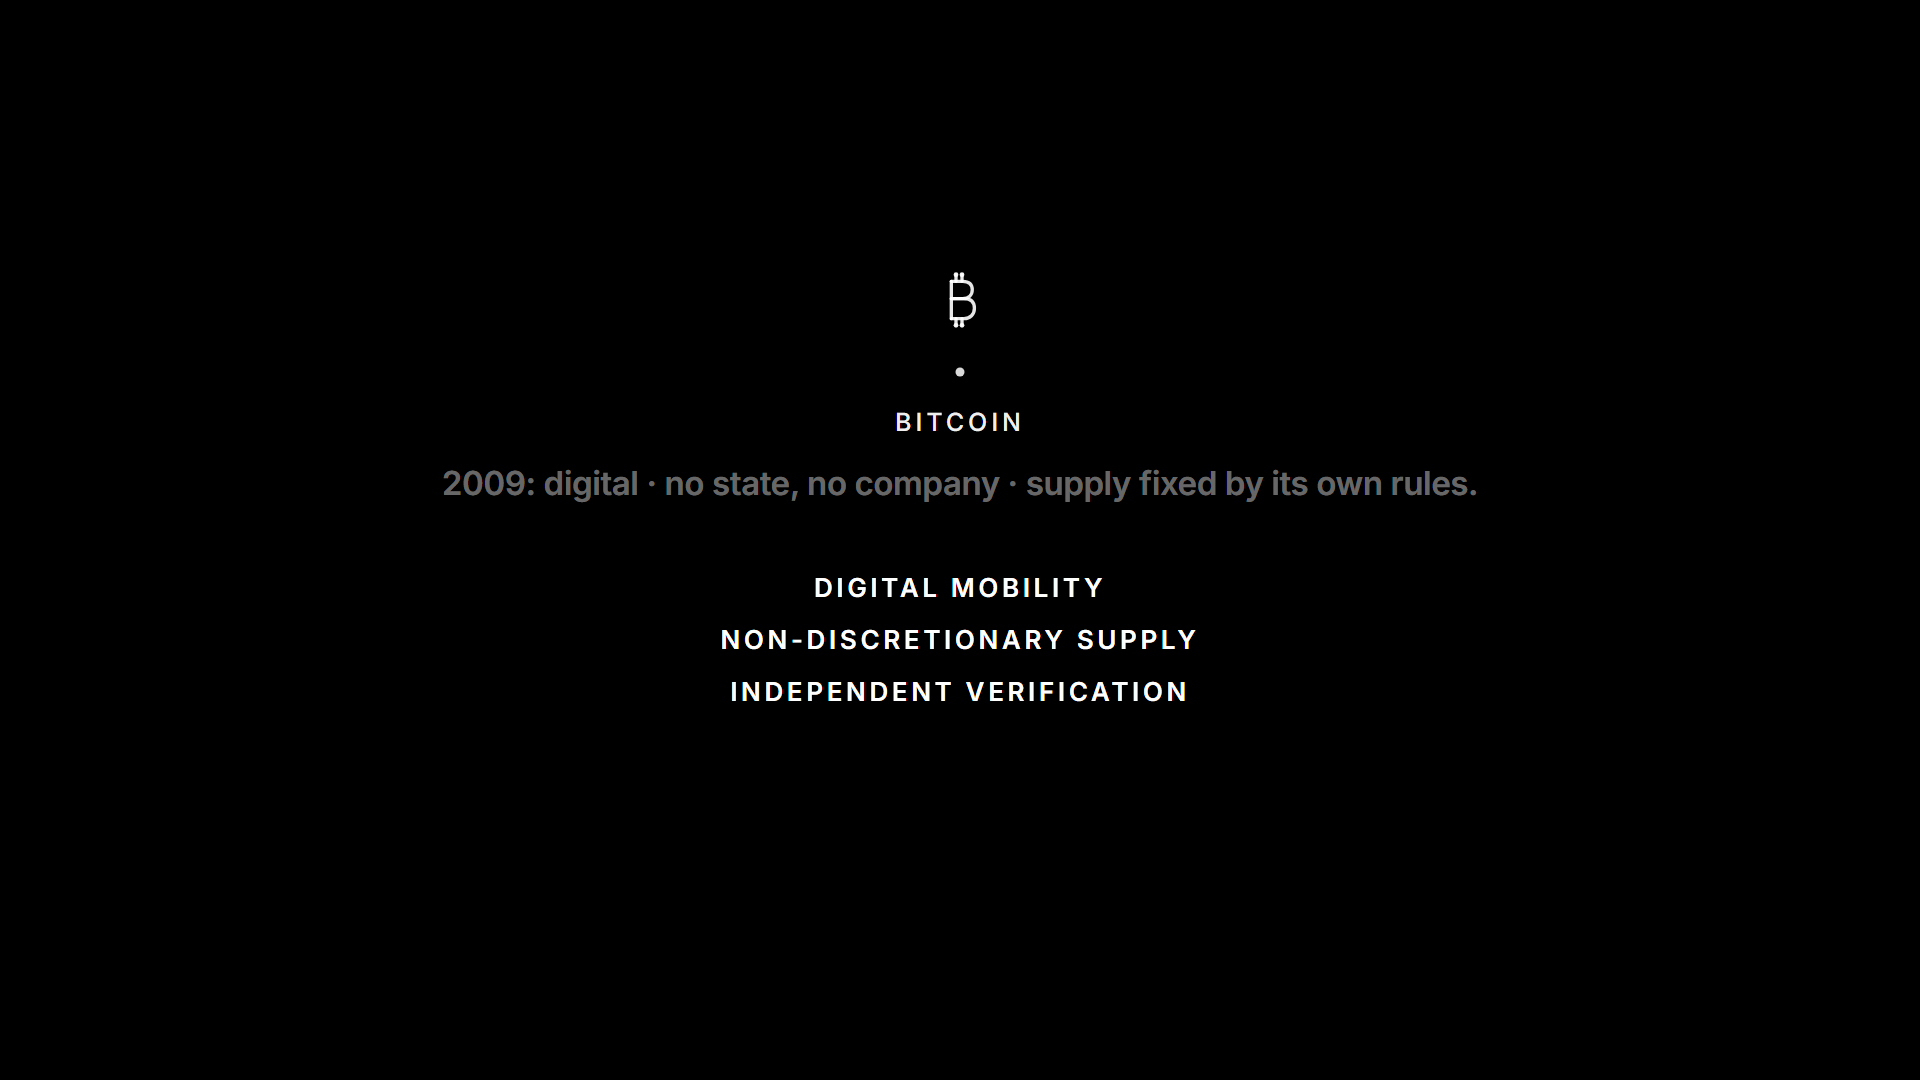
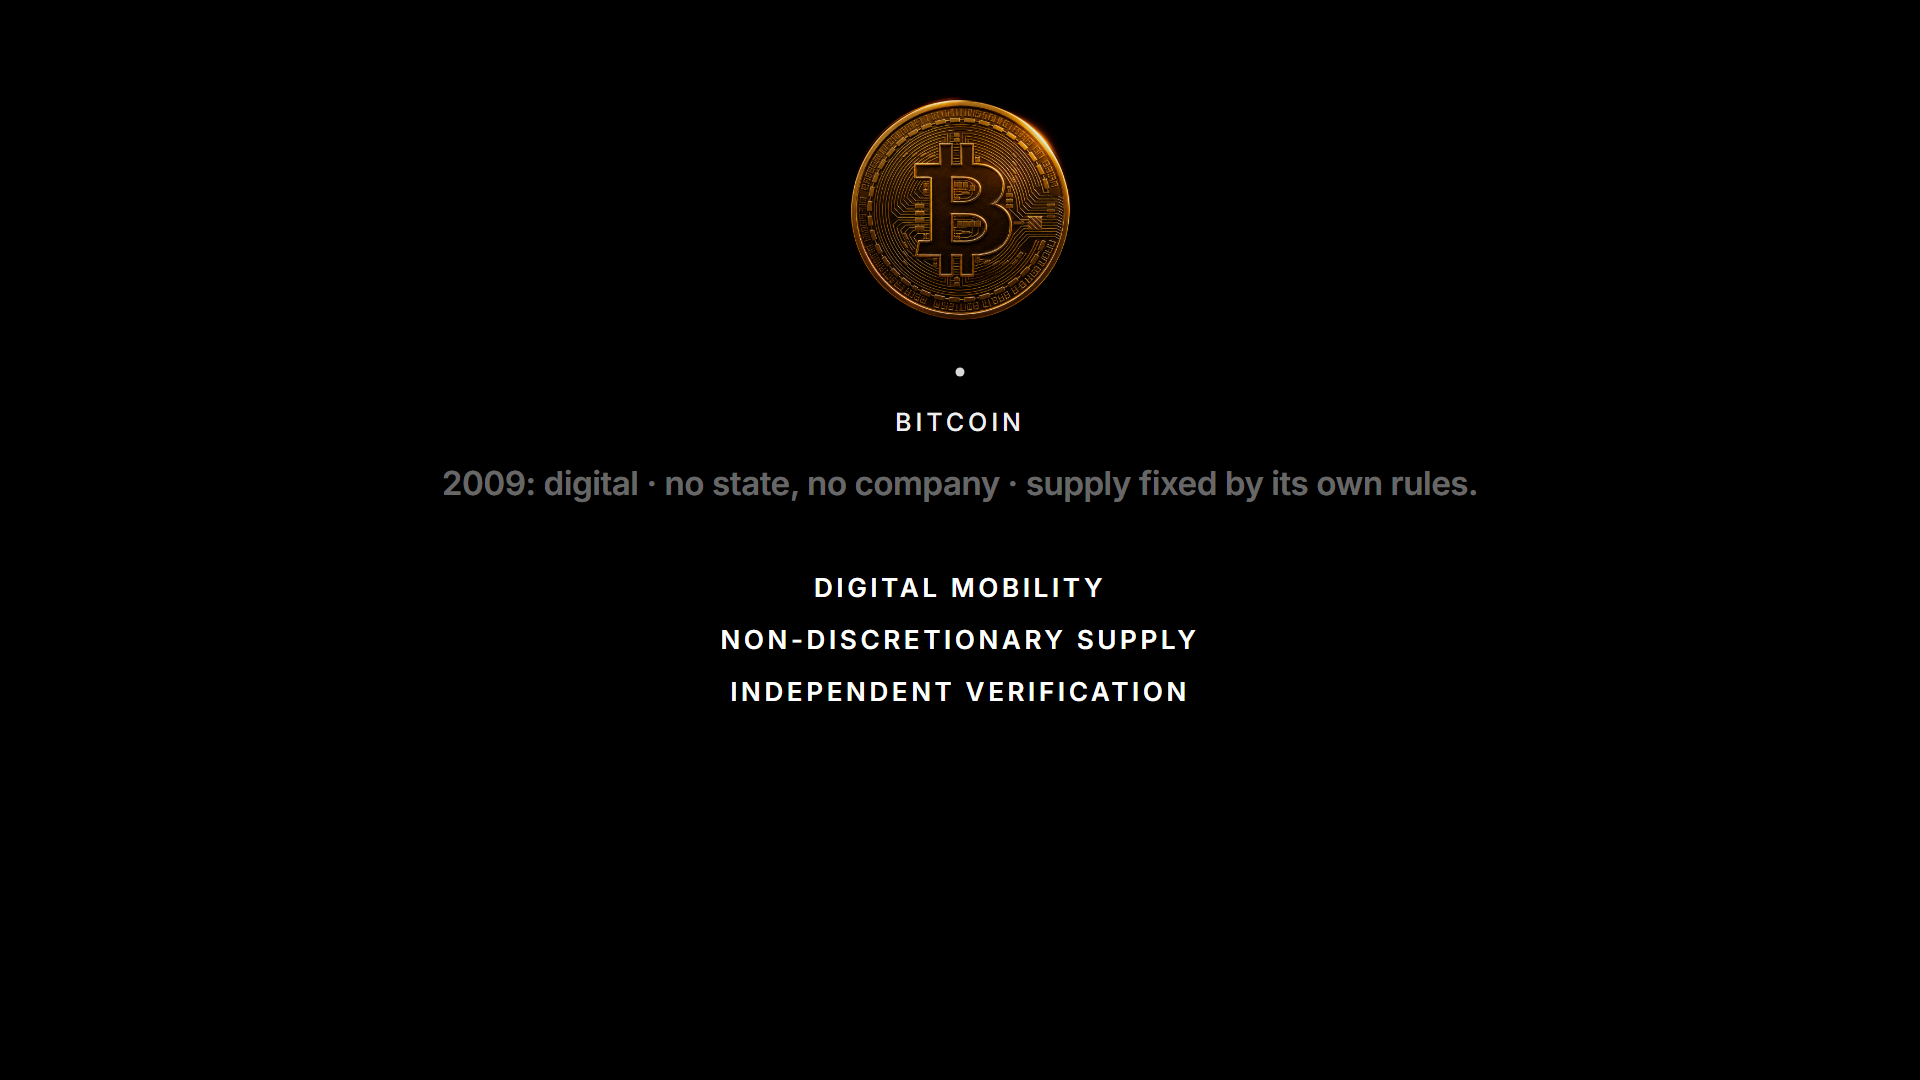
review(act-2): ruling 2 - the bitcoin glyph retires at display scale
The entrant block carries the coin render per the C1 ruling - s9-b2, s9-b3
and s9-b4 re-rendered, the drawn rhythm beneath the head untouched. The
sweep found no other display-scale glyph stand-in for the asset among the
act's beat cells: the strip already carries the coin by C1 and the rails
law, network nodes and station marks are drawn grammar and stay drawn, and
the on-file candidates keep their glyphs per the aesthetic law. Nothing
ambiguous; the legacy 2-08 entrant glyph leaves the deck at the splice.

Claude-Session: https://claude.ai/code/session_01Cr6MQm8k1rVDng9D5uytnx

Changed region(s): [[0.4375, 0.0917, 0.5625, 0.3056]]

diff --git a/review/act-2/states/sheet.html b/review/act-2/states/sheet.html
@@ -38,14 +38,44 @@ gold_certificate render, relabeled CLAIM ON GOLD, every station photographic, th
 glyph is retired at display scale (the entrant block carries the coin render), the prototype gate for the architecture
 morph is collapsed into the implementation review (your live viewing of the implemented act is the gate), and the
 post-§1 record is the approved set for every landed-state proof. <b>2 cells still carry a pending verdict — see the section below.</b>
-Current classes: <b>2 ruled-re-render · 2 pending-review · 2 approved-selection · 5 approved-adapt · 20 approved-port · 7 determined · 11 on-file</b>. Every cell is examined at full size — click any image.</p>
+Current classes: <b>5 ruled-re-render · 2 pending-review · 2 approved-selection · 5 approved-adapt · 17 approved-port · 7 determined · 11 on-file</b>. Every cell is examined at full size — click any image.</p>
 <p class="note">The beat maps stand frozen at <b>37 beats</b> (S5 8 · S6 9 · S7 5 · S8 5 · S9 5 · S10 5). The claim
 through-line is on stage at <b>S5 b1 · S5 b7 · S6 b8 · S7 b1 · S7 b2</b>; on S10's strip the disc is the traveler,
 never a station — its journey across the act (S5 entry → carrier → certificate travel → strip arrival) is the
 connective motion the implementation builds and your viewing judges.</p>
-<h2 class="h--ruled-re-render">THE §1 RE-RENDERS — THE RECORD BY RULING · 2 cells</h2>
+<h2 class="h--ruled-re-render">THE §1 RE-RENDERS — THE RECORD BY RULING · 5 cells</h2>
 <p class="lang">These cells were re-rendered exactly as the §1 rulings of 31 August order: the strip’s second station carries the gold_certificate render relabeled CLAIM ON GOLD with all four stations photographic (ruling 1 — the CERTIFICATE), and the entrant block carries the bitcoin coin render in place of the drawn glyph (ruling 2, per C1). They are the approved record by ruling 4, and they meet your eye at the act viewing — which ruling 3 makes the gate. Nothing here asks you for a verdict before that viewing.</p>
 <div class="row">
+    <figure data-review="ruled-re-render">
+      <a href="./s9-b2.png" target="_blank"><img src="./s9-b2.png" alt="s9-b2" loading="lazy" /></a>
+      <figcaption>
+        <b>s9-b2</b> · S9 b2 · <span class="frame">S9-F2</span>
+        <span class="pill pill--ruled-re-render">PORT</span>
+        <br>Beat 2 · the facts, in the deck’s most neutral register. The rail’s own entrant block, free-standing: the coin render at its head (the §1.2 ruling — the bitcoin glyph retires at display scale, per C1), the name in stop typography, and the recorded line — “2009: digital · no state, no company · supply fixed by its own rules.” Description, never argument. The drawn rhythm beneath the head is untouched.
+        <br><span class="src">source: 2-08-the-pattern builds 5–6 — the entrant block in the neutral register + the display-scale glyph retirement (31 Aug 2026, Batch B brief §1.2 — the coin render per C1)</span>
+        <br><a href="./s9-b2.png" target="_blank">full size</a>
+      </figcaption>
+    </figure>
+    <figure data-review="ruled-re-render">
+      <a href="./s9-b3.png" target="_blank"><img src="./s9-b3.png" alt="s9-b3" loading="lazy" /></a>
+      <figcaption>
+        <b>s9-b3</b> · S9 b3 · <span class="frame">S9-F2</span>
+        <span class="pill pill--ruled-re-render">PORT</span>
+        <br>Beat 3 · the three capabilities that had never coexisted, landing on their own advance while the facts recede to the dimmed-prior step. The caps register is the deck’s; the three names are the architecture’s. Re-rendered with the coin at the block’s head per the §1.2 ruling — nothing else moved.
+        <br><span class="src">source: 2-08-the-pattern builds 5–6 + the display-scale glyph retirement (31 Aug 2026, Batch B brief §1.2)</span>
+        <br><a href="./s9-b3.png" target="_blank">full size</a>
+      </figcaption>
+    </figure>
+    <figure data-review="ruled-re-render">
+      <a href="./s9-b4.png" target="_blank"><img src="./s9-b4.png" alt="s9-b4" loading="lazy" /></a>
+      <figcaption>
+        <b>s9-b4</b> · S9 b4 · <span class="frame">S9-F2</span>
+        <span class="pill pill--ruled-re-render">PORT</span>
+        <br>Beat 4 · the honest line, in the same breath. This is the whole reason S9-F2 is a port: the legacy treatment already gives the limitation ITS OWN ADVANCE at full voice, with everything above it receded — which is what turns “honesty in the same breath” from a hope into a composition. The sentence is the rail’s, verbatim. Re-rendered with the coin at the block’s head per the §1.2 ruling — nothing else moved.
+        <br><span class="src">source: 2-08-the-pattern build 6 — the limitation as its own advance + the display-scale glyph retirement (31 Aug 2026, Batch B brief §1.2)</span>
+        <br><a href="./s9-b4.png" target="_blank">full size</a>
+      </figcaption>
+    </figure>
     <figure data-review="ruled-re-render">
       <a href="./s10-b1.png" target="_blank"><img src="./s10-b1.png" alt="s10-b1" loading="lazy" /></a>
       <figcaption>
@@ -228,7 +258,7 @@ connective motion the implementation builds and your viewing judges.</p>
         <br><a href="./s5f3-proof-1803.png" target="_blank">full size</a>
       </figcaption>
     </figure></div>
-<h2 class="h--approved-port">APPROVED BY PROVENANCE · 14 cells</h2>
+<h2 class="h--approved-port">APPROVED BY PROVENANCE · 11 cells</h2>
 <p class="lang">Ports. Every one of these is a proven legacy treatment transplanted — several of them by mounting the very component the legacy slides run, at the state they run it. They carry no review burden: look only if something appears wrong.</p>
 <div class="row">
     <figure data-review="approved-port">
@@ -339,36 +369,6 @@ connective motion the implementation builds and your viewing judges.</p>
         <br>Beat 4 · THE RECORD. Ported whole: `src/data/purchasing-power.js` unchanged, one vertex per observed year (“the line is the record, not a curve fit”), the frozen draw order and per-series alpha, the 1971 = 100 reference line, the end-label spread where USD and GBP finish within a label’s height, the index note. Ruled PORT on 31 Aug; an ADAPT is reserved only for a clash the presenter sees in context.
         <br><span class="src">source: 2-07-the-severance’s chart — the frozen data and every draw rule, untouched</span>
         <br><a href="./s8-b4.png" target="_blank">full size</a>
-      </figcaption>
-    </figure>
-    <figure data-review="approved-port">
-      <a href="./s9-b2.png" target="_blank"><img src="./s9-b2.png" alt="s9-b2" loading="lazy" /></a>
-      <figcaption>
-        <b>s9-b2</b> · S9 b2 · <span class="frame">S9-F2</span>
-        <span class="pill pill--approved-port">PORT</span>
-        <br>Beat 2 · the facts, in the deck’s most neutral register. The rail’s own entrant block, free-standing: the mark, the name in stop typography, and the recorded line — “2009: digital · no state, no company · supply fixed by its own rules.” Description, never argument.
-        <br><span class="src">source: 2-08-the-pattern builds 5–6 — the entrant block in the neutral register</span>
-        <br><a href="./s9-b2.png" target="_blank">full size</a>
-      </figcaption>
-    </figure>
-    <figure data-review="approved-port">
-      <a href="./s9-b3.png" target="_blank"><img src="./s9-b3.png" alt="s9-b3" loading="lazy" /></a>
-      <figcaption>
-        <b>s9-b3</b> · S9 b3 · <span class="frame">S9-F2</span>
-        <span class="pill pill--approved-port">PORT</span>
-        <br>Beat 3 · the three capabilities that had never coexisted, landing on their own advance while the facts recede to the dimmed-prior step. The caps register is the deck’s; the three names are the architecture’s.
-        <br><span class="src">source: 2-08-the-pattern builds 5–6</span>
-        <br><a href="./s9-b3.png" target="_blank">full size</a>
-      </figcaption>
-    </figure>
-    <figure data-review="approved-port">
-      <a href="./s9-b4.png" target="_blank"><img src="./s9-b4.png" alt="s9-b4" loading="lazy" /></a>
-      <figcaption>
-        <b>s9-b4</b> · S9 b4 · <span class="frame">S9-F2</span>
-        <span class="pill pill--approved-port">PORT</span>
-        <br>Beat 4 · the honest line, in the same breath. This is the whole reason S9-F2 is a port: the legacy treatment already gives the limitation ITS OWN ADVANCE at full voice, with everything above it receded — which is what turns “honesty in the same breath” from a hope into a composition. The sentence is the rail’s, verbatim.
-        <br><span class="src">source: 2-08-the-pattern build 6 — the limitation as its own advance</span>
-        <br><a href="./s9-b4.png" target="_blank">full size</a>
       </figcaption>
     </figure></div>
 <h2 class="h--determined">DETERMINED · 7 cells</h2>
@@ -845,33 +845,33 @@ connective motion the implementation builds and your viewing judges.</p>
         <br><a href="./s9-b1.png" target="_blank">full size</a>
       </figcaption>
     </figure>
-    <figure data-review="approved-port">
+    <figure data-review="ruled-re-render">
       <a href="./s9-b2.png" target="_blank"><img src="./s9-b2.png" alt="s9-b2" loading="lazy" /></a>
       <figcaption>
         <b>s9-b2</b> · S9 b2 · <span class="frame">S9-F2</span>
-        <span class="pill pill--approved-port">PORT</span>
-        <br>Beat 2 · the facts, in the deck’s most neutral register. The rail’s own entrant block, free-standing: the mark, the name in stop typography, and the recorded line — “2009: digital · no state, no company · supply fixed by its own rules.” Description, never argument.
-        <br><span class="src">source: 2-08-the-pattern builds 5–6 — the entrant block in the neutral register</span>
+        <span class="pill pill--ruled-re-render">PORT</span>
+        <br>Beat 2 · the facts, in the deck’s most neutral register. The rail’s own entrant block, free-standing: the coin render at its head (the §1.2 ruling — the bitcoin glyph retires at display scale, per C1), the name in stop typography, and the recorded line — “2009: digital · no state, no company · supply fixed by its own rules.” Description, never argument. The drawn rhythm beneath the head is untouched.
+        <br><span class="src">source: 2-08-the-pattern builds 5–6 — the entrant block in the neutral register + the display-scale glyph retirement (31 Aug 2026, Batch B brief §1.2 — the coin render per C1)</span>
         <br><a href="./s9-b2.png" target="_blank">full size</a>
       </figcaption>
     </figure>
-    <figure data-review="approved-port">
+    <figure data-review="ruled-re-render">
       <a href="./s9-b3.png" target="_blank"><img src="./s9-b3.png" alt="s9-b3" loading="lazy" /></a>
       <figcaption>
         <b>s9-b3</b> · S9 b3 · <span class="frame">S9-F2</span>
-        <span class="pill pill--approved-port">PORT</span>
-        <br>Beat 3 · the three capabilities that had never coexisted, landing on their own advance while the facts recede to the dimmed-prior step. The caps register is the deck’s; the three names are the architecture’s.
-        <br><span class="src">source: 2-08-the-pattern builds 5–6</span>
+        <span class="pill pill--ruled-re-render">PORT</span>
+        <br>Beat 3 · the three capabilities that had never coexisted, landing on their own advance while the facts recede to the dimmed-prior step. The caps register is the deck’s; the three names are the architecture’s. Re-rendered with the coin at the block’s head per the §1.2 ruling — nothing else moved.
+        <br><span class="src">source: 2-08-the-pattern builds 5–6 + the display-scale glyph retirement (31 Aug 2026, Batch B brief §1.2)</span>
         <br><a href="./s9-b3.png" target="_blank">full size</a>
       </figcaption>
     </figure>
-    <figure data-review="approved-port">
+    <figure data-review="ruled-re-render">
       <a href="./s9-b4.png" target="_blank"><img src="./s9-b4.png" alt="s9-b4" loading="lazy" /></a>
       <figcaption>
         <b>s9-b4</b> · S9 b4 · <span class="frame">S9-F2</span>
-        <span class="pill pill--approved-port">PORT</span>
-        <br>Beat 4 · the honest line, in the same breath. This is the whole reason S9-F2 is a port: the legacy treatment already gives the limitation ITS OWN ADVANCE at full voice, with everything above it receded — which is what turns “honesty in the same breath” from a hope into a composition. The sentence is the rail’s, verbatim.
-        <br><span class="src">source: 2-08-the-pattern build 6 — the limitation as its own advance</span>
+        <span class="pill pill--ruled-re-render">PORT</span>
+        <br>Beat 4 · the honest line, in the same breath. This is the whole reason S9-F2 is a port: the legacy treatment already gives the limitation ITS OWN ADVANCE at full voice, with everything above it receded — which is what turns “honesty in the same breath” from a hope into a composition. The sentence is the rail’s, verbatim. Re-rendered with the coin at the block’s head per the §1.2 ruling — nothing else moved.
+        <br><span class="src">source: 2-08-the-pattern build 6 — the limitation as its own advance + the display-scale glyph retirement (31 Aug 2026, Batch B brief §1.2)</span>
         <br><a href="./s9-b4.png" target="_blank">full size</a>
       </figcaption>
     </figure>

diff --git a/docs/batch-b-package.md b/docs/batch-b-package.md
@@ -153,7 +153,7 @@ Every frame: 1920×1080, real assets, real type, final composition, brightness r
 
 # 5. Asset manifest for Act II
 
-**In the shipping library, assigned:** `shells` (S5 carrier), `cattle` · `salt` · `iron` (S5 verdicts), `gold` (S5 survivor, S6, S10 strip), `vault` (S7 custody), `gold_certificate` (S7 claim · **S10, the strip's CLAIM ON GOLD station** — the CERTIFICATE ruling, 31 August 2026, brief §1.1), `ledger_glow` (S8 transformation), `ledger` (lineup appearances), `palladium` (S10), `bitcoin` (S10 strip — carries the recorded V-1 physical-coin flag; the presenter's P1 C1 ruling may inform its treatment here; flag at states time, don't resolve silently).
+**In the shipping library, assigned:** `shells` (S5 carrier), `cattle` · `salt` · `iron` (S5 verdicts), `gold` (S5 survivor, S6, S10 strip), `vault` (S7 custody), `gold_certificate` (S7 claim · **S10, the strip's CLAIM ON GOLD station** — the CERTIFICATE ruling, 31 August 2026, brief §1.1), `ledger_glow` (S8 transformation), `ledger` (lineup appearances), `palladium` (S10), `bitcoin` (S10 strip · S9's entrant block — the V-1 flag closed by C1, and **the display-scale glyph retirement of 31 August 2026** (Batch B brief §1.2) resolves the treatment: the coin render carries the asset wherever it stands at display scale in Act II; drawn grammar — network nodes, station marks — stays drawn).
 **Pending, presenter-side:** `fiat` (S8) — generation in flight per manifest §3.0; the S8 frames stub it automatically until it lands; the `gold_certificate` distinctness check closes when it does.
 **No other generation is needed for Act II.**
 

diff --git a/docs/dark-field-manifest.md b/docs/dark-field-manifest.md
@@ -73,7 +73,7 @@ sit beside them on the contact sheet without standing out.
 | `gold` | `assets/dark-field/gold.png` | 4.06 carrier lineup · 2.5 two-survivors (flagged) · 2.6 featured moment (flagged) | 0.08 / 0.07 | 86.7% | +181 |
 | `paper` | `assets/dark-field/paper.png` | 4.06 carrier lineup | 0.09 / 0.08 | 80.5% | +80 |
 | `ledger` | `assets/dark-field/ledger.png` | 4.06 carrier lineup | 0.10 / 0.08 | 69.0% | +138 |
-| `bitcoin` | `assets/dark-field/bitcoin.png` | 4.06 carrier lineup | 0.11 / 0.10 | 77.2% | +154 |
+| `bitcoin` | `assets/dark-field/bitcoin.png` | 4.06 carrier lineup · P1's fifth form · S9's entrant block · S10's strip | 0.11 / 0.10 | 77.2% | +154 |
 
 **The R7.3 contender shoot — four more, all passing** (presenter-generated,
 grade-gated 11 August 2026; the run is `review/rebuild-r7-3/grade-r7-3.json`):
@@ -298,6 +298,14 @@ consistency — one film, one answer to the same question. *(Batch B's states
 session inherits the ruling; no work is done on Scene 10 here.)* The revert path
 above is unchanged and stays on file: the ruling is a selection, and a selection
 is changed by changing one word.
+
+**Extended by the presenter, 31 August 2026 (Batch B implementation brief
+§1.2): the bitcoin glyph retires at display scale in Act II.** Wherever a
+drawn glyph stood in for the asset at display scale, the coin render carries
+it — the first site is S9's entrant block (`s9-b2` through `s9-b4`, re-rendered).
+Drawn grammar — network nodes, station marks — is not the asset and stays
+drawn; the on-file candidate cells keep their glyphs per the aesthetic law's
+file-keeping clause.
 
 ---
 
